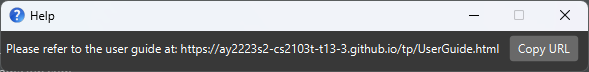
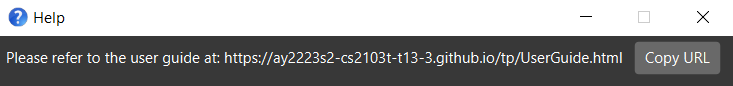
Add clearer image of help message

diff --git a/docs/UserGuide.md b/docs/UserGuide.md
@@ -74,9 +74,9 @@ your internship hunt!
 
 ### Viewing help : `help`
 
-Shows a message with a link to the help page.
+Shows a message with a link to the user guide.
 
-[help message](images/helpMessage.png)
+![help message](images/helpMessage.png)
 
 Format: `help`
 
